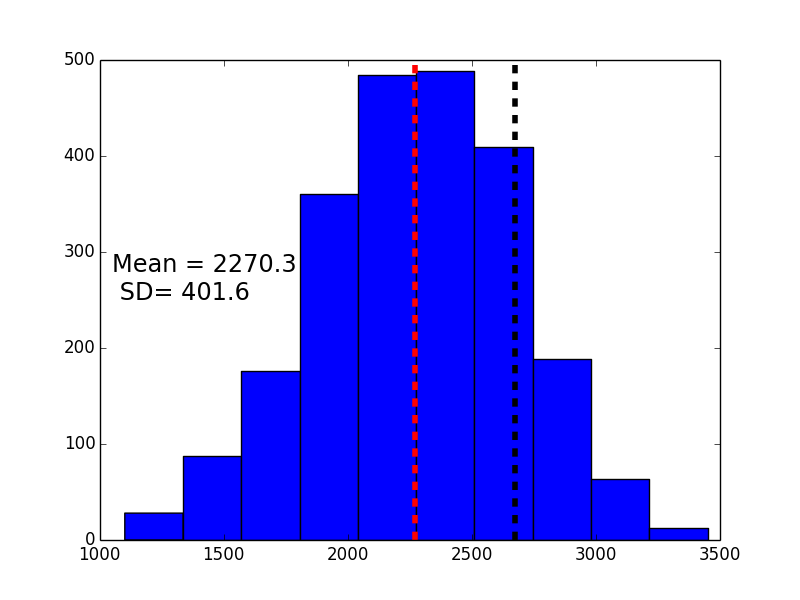
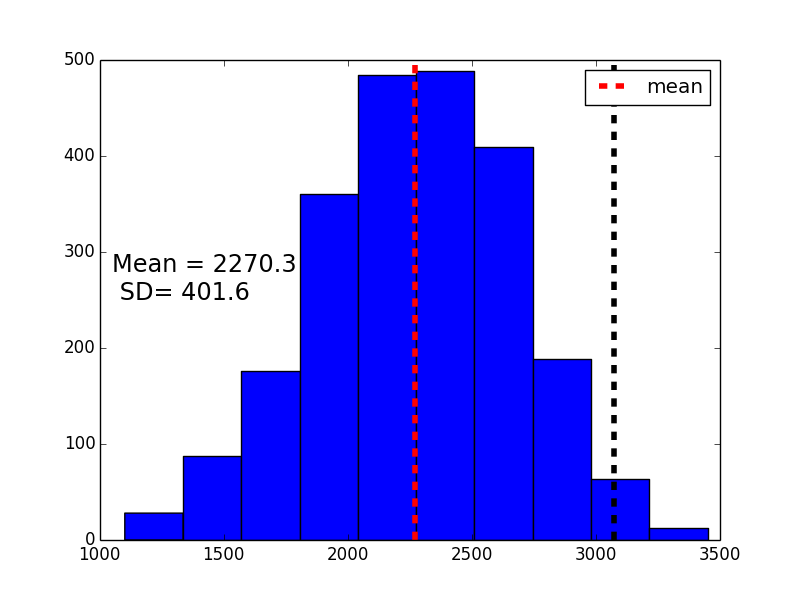
Adding labels to plot

Changed region(s): [[0.7188, 0.09, 0.9062, 0.9], [0.625, 0.12, 0.6562, 0.9]]

diff --git a/dev/patchdock_analysis/analyse_patchdock_score.py b/dev/patchdock_analysis/analyse_patchdock_score.py
@@ -12,6 +12,7 @@ class analyse_patchdock:
         self.scores = {}
         self.debug = 0
         self.path = "./"
+        self.cutoff = 2.0
 
     #    def __str__(self):
     #        print self.scores
@@ -83,6 +84,7 @@ class analyse_patchdock:
         parser.add_argument('-f',dest='patchdockscorefiles',nargs='*', help='Specify a number of files to analyse their score')
         parser.add_argument('--path',dest='path', default="./", help='Path to directory where the analysis is performed')
         parser.add_argument('--debug',dest='debug', type=int, help='Run program in debug mode')
+        parser.add_argument('--cutoff',dest='cutoff', default=2.0,type=float, help='Display where significant cutoff is')
 
         args_dict = vars( parser.parse_args() )
         for item in args_dict:
@@ -107,7 +109,11 @@ class analyse_patchdock:
 
         print "### Mean of data set is: ", round(mn, 4)
         print "### Standard deviation of data set is: ", round(sd, 4)
-        plt.plot_histogram_w_mean( values, mn,sd )
+
+        if(self.debug == 1):
+            print self.cutoff
+
+        plt.plot_histogram_w_mean( values, mn,sd, self.cutoff )
 
 
 

diff --git a/dev/patchdock_analysis/plot_data.py b/dev/patchdock_analysis/plot_data.py
@@ -28,13 +28,17 @@ class plot_data:
         show()
 
 
-    def plot_histogram_w_mean(self,values,mn,sd):
+    def plot_histogram_w_mean(self,values,mn,sd,cutoff=2):
         hist(values)
         xmin,xmax = xlim()
         ymin,ymax = ylim()
-        axvline(mn,c='r', linewidth=4, linestyle='--')
-        axvline(mn+sd,c='k', linewidth=4, linestyle='--')
+
+        cut = sd*cutoff
+
+        axvline(mn,c='r', linewidth=4, linestyle='--',label="mean")
+        axvline(mn+cut,c='k', linewidth=4, linestyle='--')
         text( xmin + (xmax-xmin)*0.02,  (ymax-ymin)/2,"Mean = "+str(round(mn,1))+"\n SD= "+str(round(sd,1)),size='x-large')
+        legend()
         savefig('histogram.png')
         show()
 
